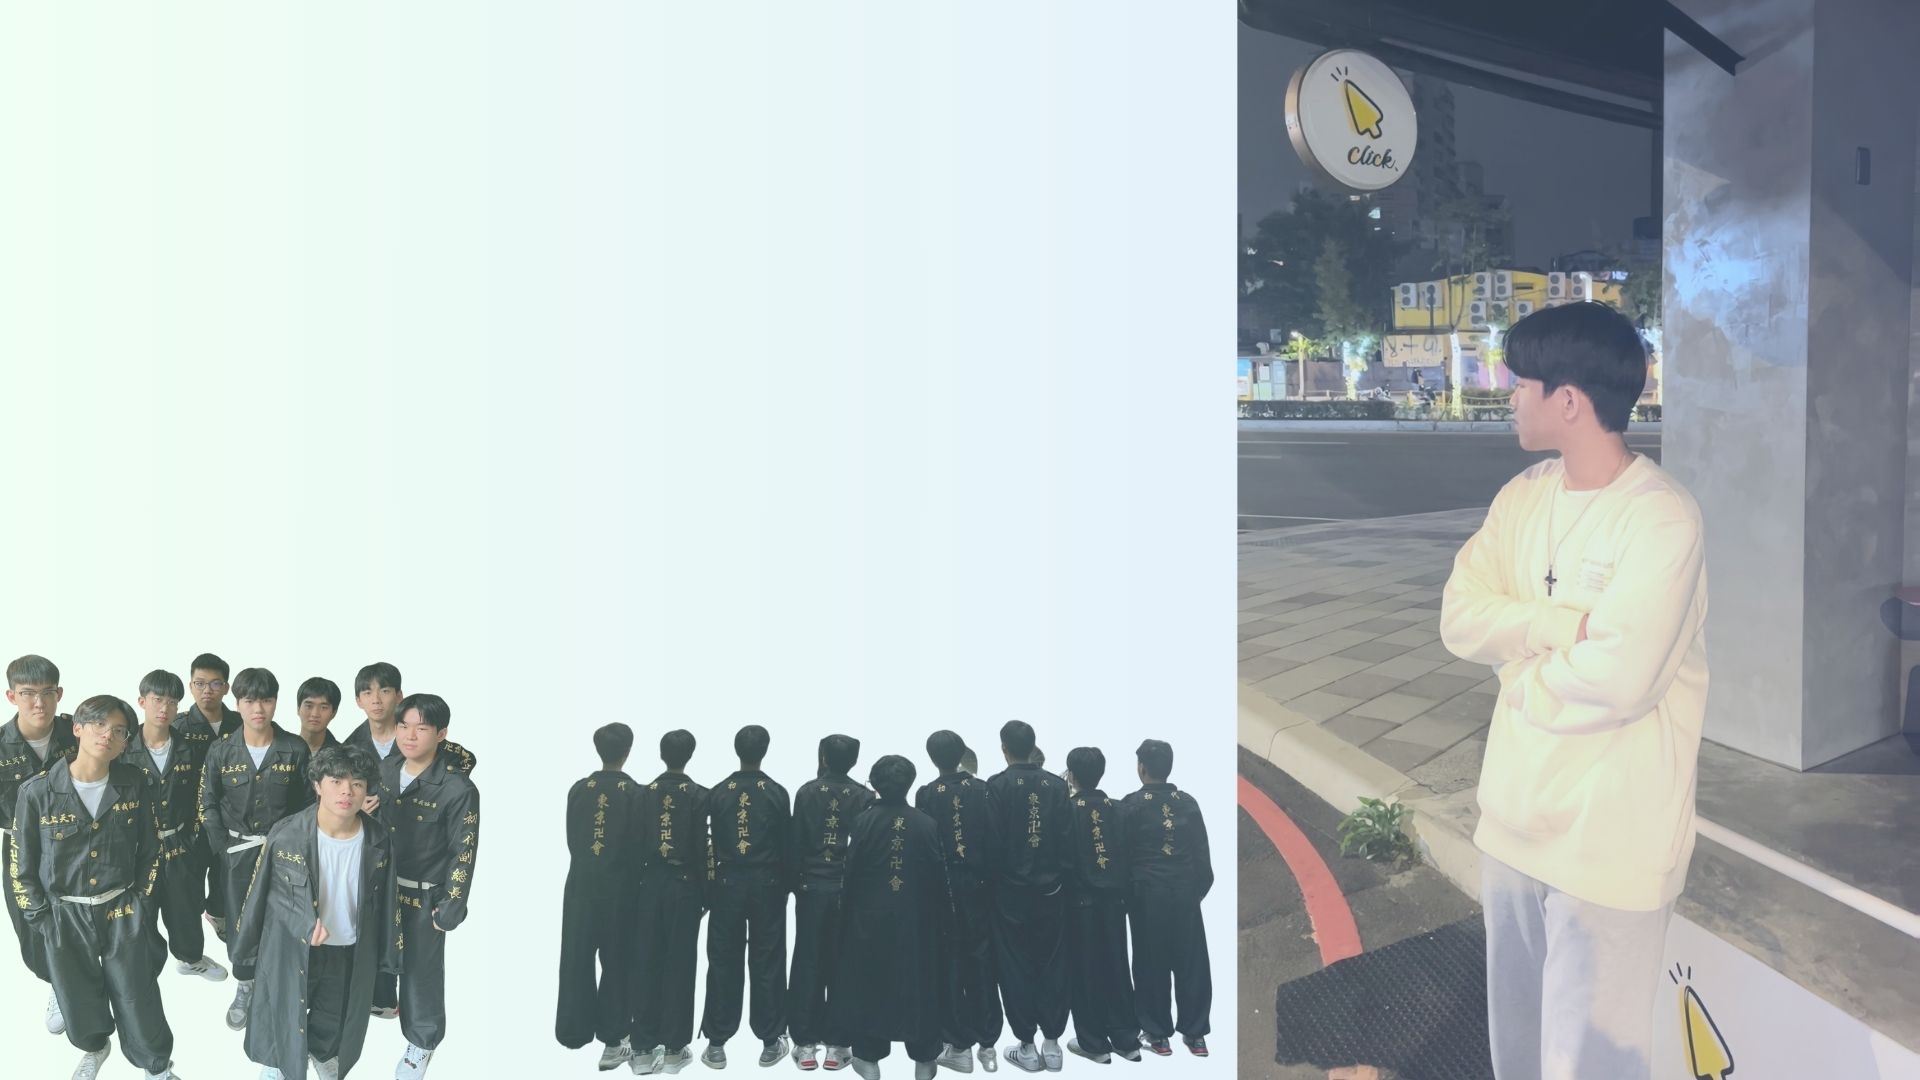
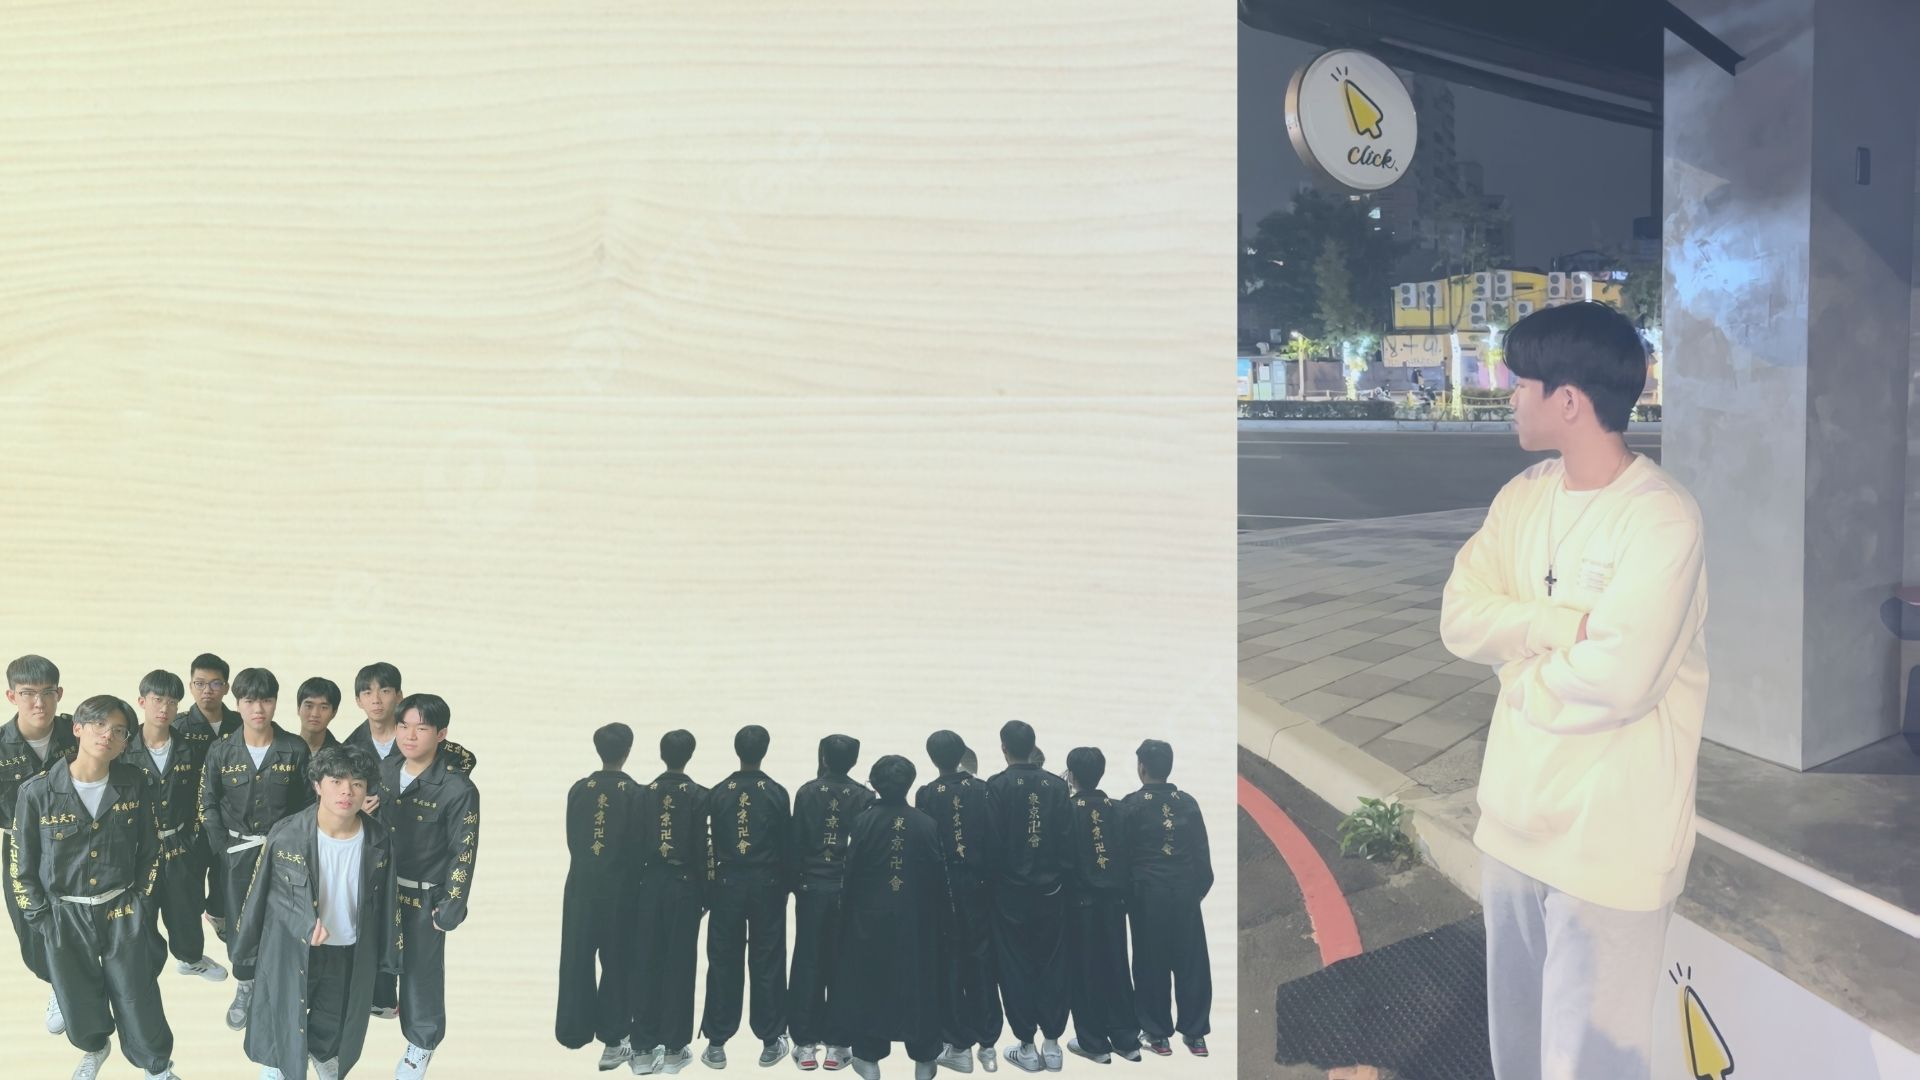
2025520第四次上傳

diff --git a/css/styles.css b/css/styles.css
@@ -4840,6 +4840,7 @@ textarea.form-control-lg {
   text-decoration: none;
   background-color: var(--bs-list-group-bg);
   border: var(--bs-list-group-border-width) solid var(--bs-list-group-border-color);
+  background-image: url(/assets/img/14.jpg);
 }
 .list-group-item:first-child {
   border-top-left-radius: inherit;
@@ -4857,8 +4858,10 @@ textarea.form-control-lg {
 .list-group-item.active {
   z-index: 2;
   color: var(--bs-list-group-active-color);
-  background-color: var(--bs-list-group-active-bg);
+  background-color:  #6c7769;
+  background-image: url(/assets/img/13.jpg);
   border-color: var(--bs-list-group-active-border-color);
+  color: #000;
 }
 .list-group-item + .list-group-item {
   border-top-width: 0;
@@ -8128,7 +8131,7 @@ textarea.form-control-lg {
 
 .bg-primary {
   --bs-bg-opacity: 1;
-  background-color: cornflowerblue;
+  background-color: #6c7769;
 }
 
 .bg-secondary {

diff --git a/css/mystyles.css b/css/mystyles.css
@@ -14,7 +14,8 @@ a.linlink:hover {
 }
 
 div.lindivgrey{
-   background-color: lavender ;
+   background-color: #238320 ;
+   background-image: url(/assets/img/14.jpg);
    padding: 20px;
    border-radius: 20px;
    border: 2px solid rgb(149, 134, 134);
@@ -48,4 +49,12 @@ div.lindivgrey{
    width: 100%;
    height: 100%;
    object-fit: cover;
+   background-color: #238320;
+   background-image: url(/assets/img/14.jpg);
 }
+
+section{
+   background-color: #959f93;
+   background-image: url(/assets/img/11.jpg);
+}
+
